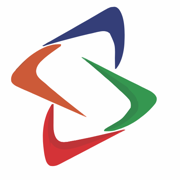
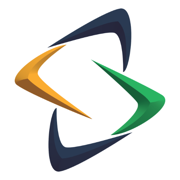
feat(marca): identidad nueva sin rojo, en tokens
Los tres tonos salen de los píxeles de ICON.png y FLAT.png: navy #223A54,
verde #00BF62 y ámbar #FFAD2B. El rojo del isotipo anterior desaparece.

Tokens
- Tres rampas completas en `@theme`, verificadas contra blanco y contra
  marca-800. El verde y el ámbar puros dan 2,43:1 y 1,86:1 sobre blanco, muy
  por debajo del 4,5:1 de WCAG AA, así que en claro solo valen como relleno:
  cuando tienen que ser texto se usa el paso 700 (4,73:1 y 5,21:1).
- Las paletas de Tailwind que el sitio ya usaba quedan apuntando a la marca.
  Son 390 clases `blue-*`, 44 `green-*` y 43 `orange-*` repartidas por `src/`:
  redefinir la rampa las recolorea sin tocar el marcado ni arriesgar
  regresiones. Las plantillas nuevas usan `marca-*`, `acento-*` y `realce-*`.

Imágenes
- Los once archivos de marca entran en `static/marca/`.
- `assets/logo.png` y `assets/logo-white.png` pasan a ser FLAT y NEGATIVE:
  el marcado ya los pedía en 11 sitios, así que sustituir el archivo recolorea
  todo de una vez. El FLAT encaja además mejor en las clases `h-8 w-32`
  (3,98:1) que el logo anterior (4,53:1).
- Favicon, apple-touch-icon y manifiesto regenerados desde ICON.png; se retira
  `favicon.svg`, que era el isotipo viejo con rojo.
- Tarjeta Open Graph rehecha con la paleta nueva.
- `theme-color` pasa de #2563eb a #223A54.

Medido en el build de producción: accesibilidad 92 → 95, prácticas
recomendadas 93 → 96, SEO se mantiene en 100, y los tres nodos con contraste
insuficiente bajan a cero.

Changed region(s): [[0.0556, 0.0278, 0.9167, 0.9722]]

diff --git a/landing/src/app.css b/landing/src/app.css
@@ -1,3 +1,145 @@
 @import 'tailwindcss';
 @plugin '@tailwindcss/forms';
 @plugin '@tailwindcss/typography';
+
+/**
+ * Identidad SEGISPRO.
+ *
+ * Los tres tonos salen de los píxeles de `ICON.png` y `FLAT.png`: navy #223A54,
+ * verde #00BF62 y ámbar #FFAD2B. El rojo del isotipo anterior ya no existe.
+ *
+ * Cada rampa se construyó alrededor de su color de marca y se verificó contra
+ * blanco y contra `marca-800`, que son los dos fondos que usa el sitio. Los
+ * pasos que aparecen comentados con su ratio son los únicos aptos para texto:
+ * el verde y el ámbar puros dan 2,43:1 y 1,86:1 sobre blanco, muy por debajo
+ * del 4,5:1 que exige WCAG AA, así que en claro solo sirven como relleno.
+ */
+@theme {
+	/* Navy — color primario, el que puede llevar texto en cualquier paso alto. */
+	--color-marca-50: #f3f6fa;
+	--color-marca-100: #e3eaf2;
+	--color-marca-200: #c5d4e4;
+	--color-marca-300: #9cb3ce;
+	--color-marca-400: #6d8aaf;
+	--color-marca-500: #4a6c95;
+	--color-marca-600: #35547a; /* 7,78:1 sobre blanco — botón sólido */
+	--color-marca-700: #2a4566;
+	--color-marca-800: #223a54; /* 11,66:1 — el navy de la marca */
+	--color-marca-900: #1b2e43;
+	--color-marca-950: #111d2b;
+
+	/* Verde — acento. Sobre blanco solo desde el 700. */
+	--color-acento-50: #e9fbf2;
+	--color-acento-100: #c7f5de;
+	--color-acento-200: #8dedbd;
+	--color-acento-300: #4ee199;
+	--color-acento-400: #16d17a;
+	--color-acento-500: #00bf62; /* el verde de la marca — relleno y gráfico */
+	--color-acento-600: #00a353;
+	--color-acento-700: #008544; /* 4,73:1 sobre blanco — el verde cuando es texto */
+	--color-acento-800: #046b39;
+	--color-acento-900: #065730;
+	--color-acento-950: #003119;
+
+	/* Ámbar — realce. Sobre blanco solo desde el 700. */
+	--color-realce-50: #fff9ec;
+	--color-realce-100: #ffefc9;
+	--color-realce-200: #ffdb8e;
+	--color-realce-300: #ffc451;
+	--color-realce-400: #ffad2b; /* el ámbar de la marca — relleno y gráfico */
+	--color-realce-500: #f59008;
+	--color-realce-600: #d96e03;
+	--color-realce-700: #b44e07; /* 5,21:1 sobre blanco — el ámbar cuando es texto */
+	--color-realce-800: #933d0d;
+	--color-realce-900: #79330e;
+	--color-realce-950: #461803;
+
+	/*
+	 * Las paletas de Tailwind que el sitio ya usaba quedan apuntando a la marca.
+	 * Son 390 clases `blue-*`, 44 `green-*` y 43 `orange-*` repartidas por todo
+	 * `src/`: redefinir la rampa las recolorea de golpe y sin tocar el marcado,
+	 * en lugar de reescribir cada una y arriesgar regresiones visuales.
+	 * Las plantillas nuevas usan `marca-*`, `acento-*` y `realce-*` directamente.
+	 */
+	--color-blue-50: var(--color-marca-50);
+	--color-blue-100: var(--color-marca-100);
+	--color-blue-200: var(--color-marca-200);
+	--color-blue-300: var(--color-marca-300);
+	--color-blue-400: var(--color-marca-400);
+	--color-blue-500: var(--color-marca-500);
+	--color-blue-600: var(--color-marca-600);
+	--color-blue-700: var(--color-marca-700);
+	--color-blue-800: var(--color-marca-800);
+	--color-blue-900: var(--color-marca-900);
+	--color-blue-950: var(--color-marca-950);
+
+	--color-indigo-50: var(--color-marca-50);
+	--color-indigo-100: var(--color-marca-100);
+	--color-indigo-200: var(--color-marca-200);
+	--color-indigo-300: var(--color-marca-300);
+	--color-indigo-400: var(--color-marca-400);
+	--color-indigo-500: var(--color-marca-500);
+	--color-indigo-600: var(--color-marca-600);
+	--color-indigo-700: var(--color-marca-700);
+	--color-indigo-800: var(--color-marca-800);
+	--color-indigo-900: var(--color-marca-900);
+	--color-indigo-950: var(--color-marca-950);
+
+	--color-cyan-400: var(--color-acento-400);
+	--color-cyan-500: var(--color-acento-500);
+	--color-cyan-600: var(--color-acento-600);
+	--color-cyan-700: var(--color-acento-700);
+
+	--color-sky-400: var(--color-marca-400);
+	--color-sky-500: var(--color-marca-500);
+	--color-sky-600: var(--color-marca-600);
+
+	--color-green-50: var(--color-acento-50);
+	--color-green-100: var(--color-acento-100);
+	--color-green-200: var(--color-acento-200);
+	--color-green-300: var(--color-acento-300);
+	--color-green-400: var(--color-acento-400);
+	--color-green-500: var(--color-acento-500);
+	--color-green-600: var(--color-acento-600);
+	--color-green-700: var(--color-acento-700);
+	--color-green-800: var(--color-acento-800);
+	--color-green-900: var(--color-acento-900);
+	--color-green-950: var(--color-acento-950);
+
+	--color-emerald-50: var(--color-acento-50);
+	--color-emerald-100: var(--color-acento-100);
+	--color-emerald-200: var(--color-acento-200);
+	--color-emerald-300: var(--color-acento-300);
+	--color-emerald-400: var(--color-acento-400);
+	--color-emerald-500: var(--color-acento-500);
+	--color-emerald-600: var(--color-acento-600);
+	--color-emerald-700: var(--color-acento-700);
+	--color-emerald-800: var(--color-acento-800);
+	--color-emerald-900: var(--color-acento-900);
+
+	--color-teal-400: var(--color-acento-400);
+	--color-teal-500: var(--color-acento-500);
+	--color-teal-600: var(--color-acento-600);
+	--color-teal-700: var(--color-acento-700);
+
+	--color-orange-50: var(--color-realce-50);
+	--color-orange-100: var(--color-realce-100);
+	--color-orange-200: var(--color-realce-200);
+	--color-orange-300: var(--color-realce-300);
+	--color-orange-400: var(--color-realce-400);
+	--color-orange-500: var(--color-realce-500);
+	--color-orange-600: var(--color-realce-600);
+	--color-orange-700: var(--color-realce-700);
+	--color-orange-800: var(--color-realce-800);
+	--color-orange-900: var(--color-realce-900);
+
+	--color-amber-400: var(--color-realce-400);
+	--color-amber-500: var(--color-realce-500);
+	--color-amber-600: var(--color-realce-600);
+	--color-amber-700: var(--color-realce-700);
+
+	--color-purple-500: var(--color-marca-500);
+	--color-purple-600: var(--color-marca-600);
+	--color-pink-500: var(--color-realce-500);
+	--color-pink-600: var(--color-realce-600);
+}

diff --git a/landing/src/app.html b/landing/src/app.html
@@ -3,10 +3,9 @@
 	<head>
 		<meta charset="utf-8" />
 		<meta name="viewport" content="width=device-width, initial-scale=1" />
-		<meta name="theme-color" content="#2563eb" />
+		<meta name="theme-color" content="#223A54" />
 		<meta name="facebook-domain-verification" content="5u4c3n3ryk9xt7mq069clq6klat9ya" />
 		<link rel="icon" href="/favicon.ico" sizes="any" />
-		<link rel="icon" type="image/svg+xml" href="/favicon.svg" />
 		<link rel="icon" type="image/png" sizes="32x32" href="/favicon-32.png" />
 		<link rel="icon" type="image/png" sizes="192x192" href="/favicon-192.png" />
 		<link rel="apple-touch-icon" href="/apple-touch-icon.png" />
